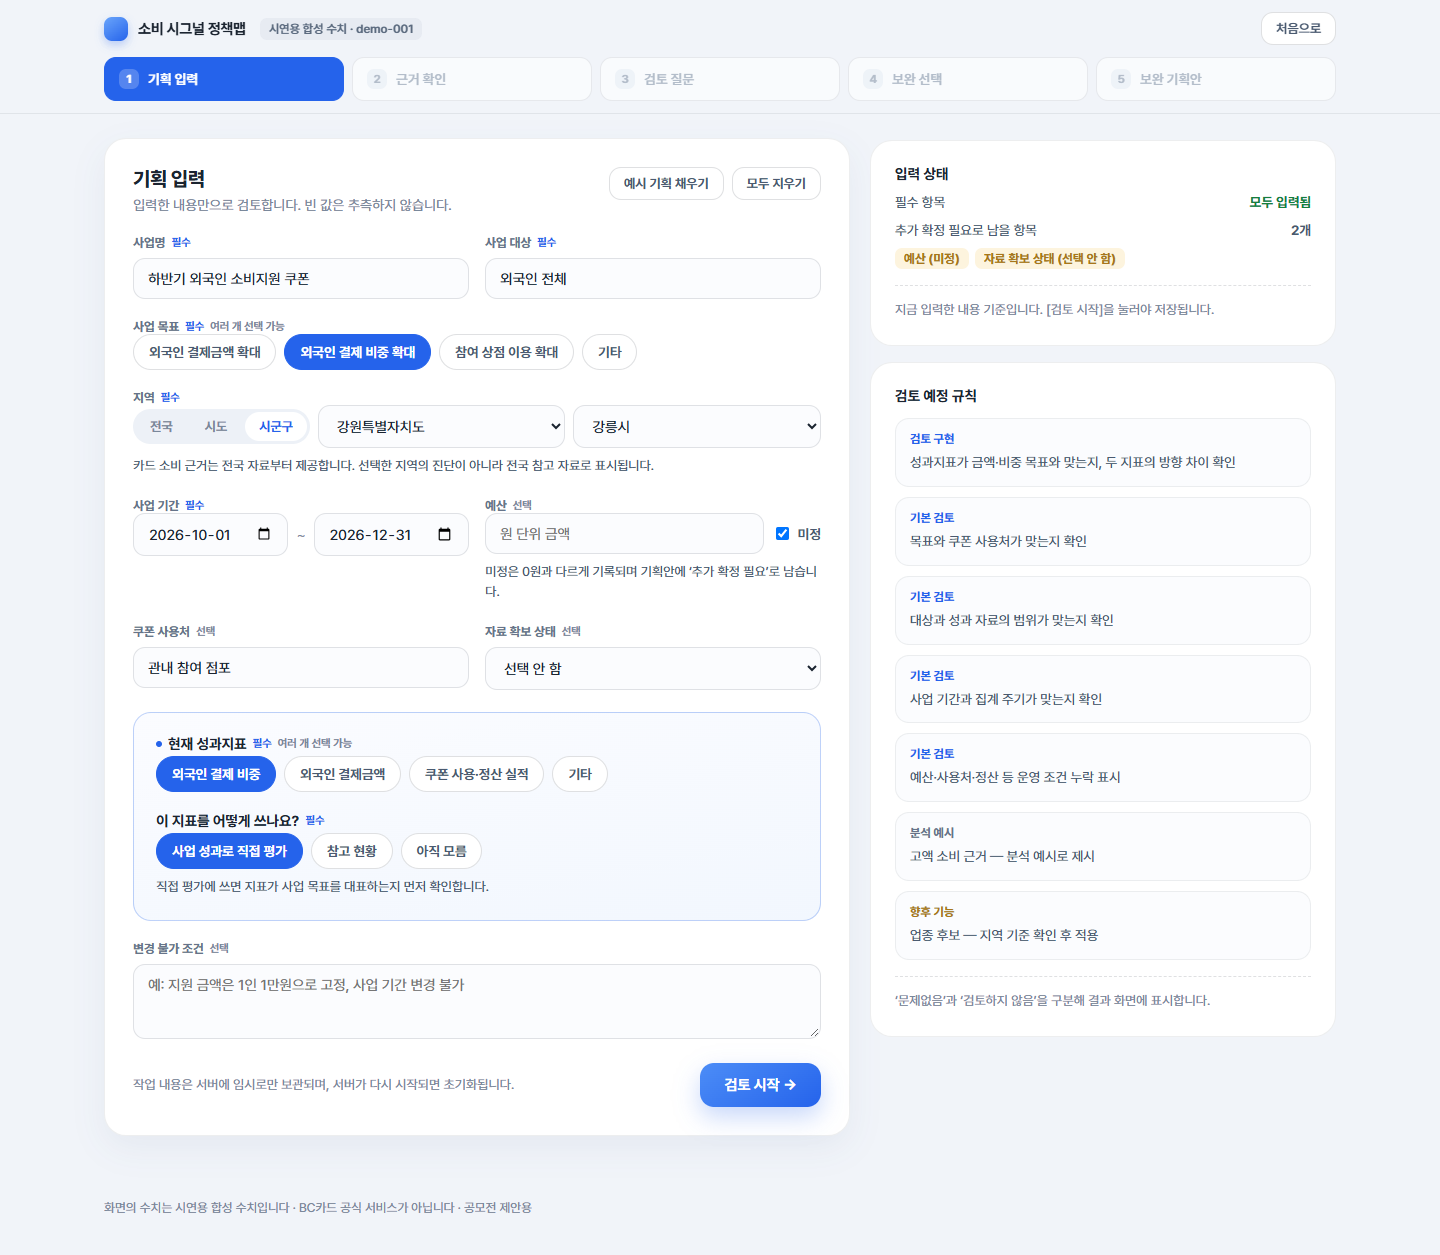
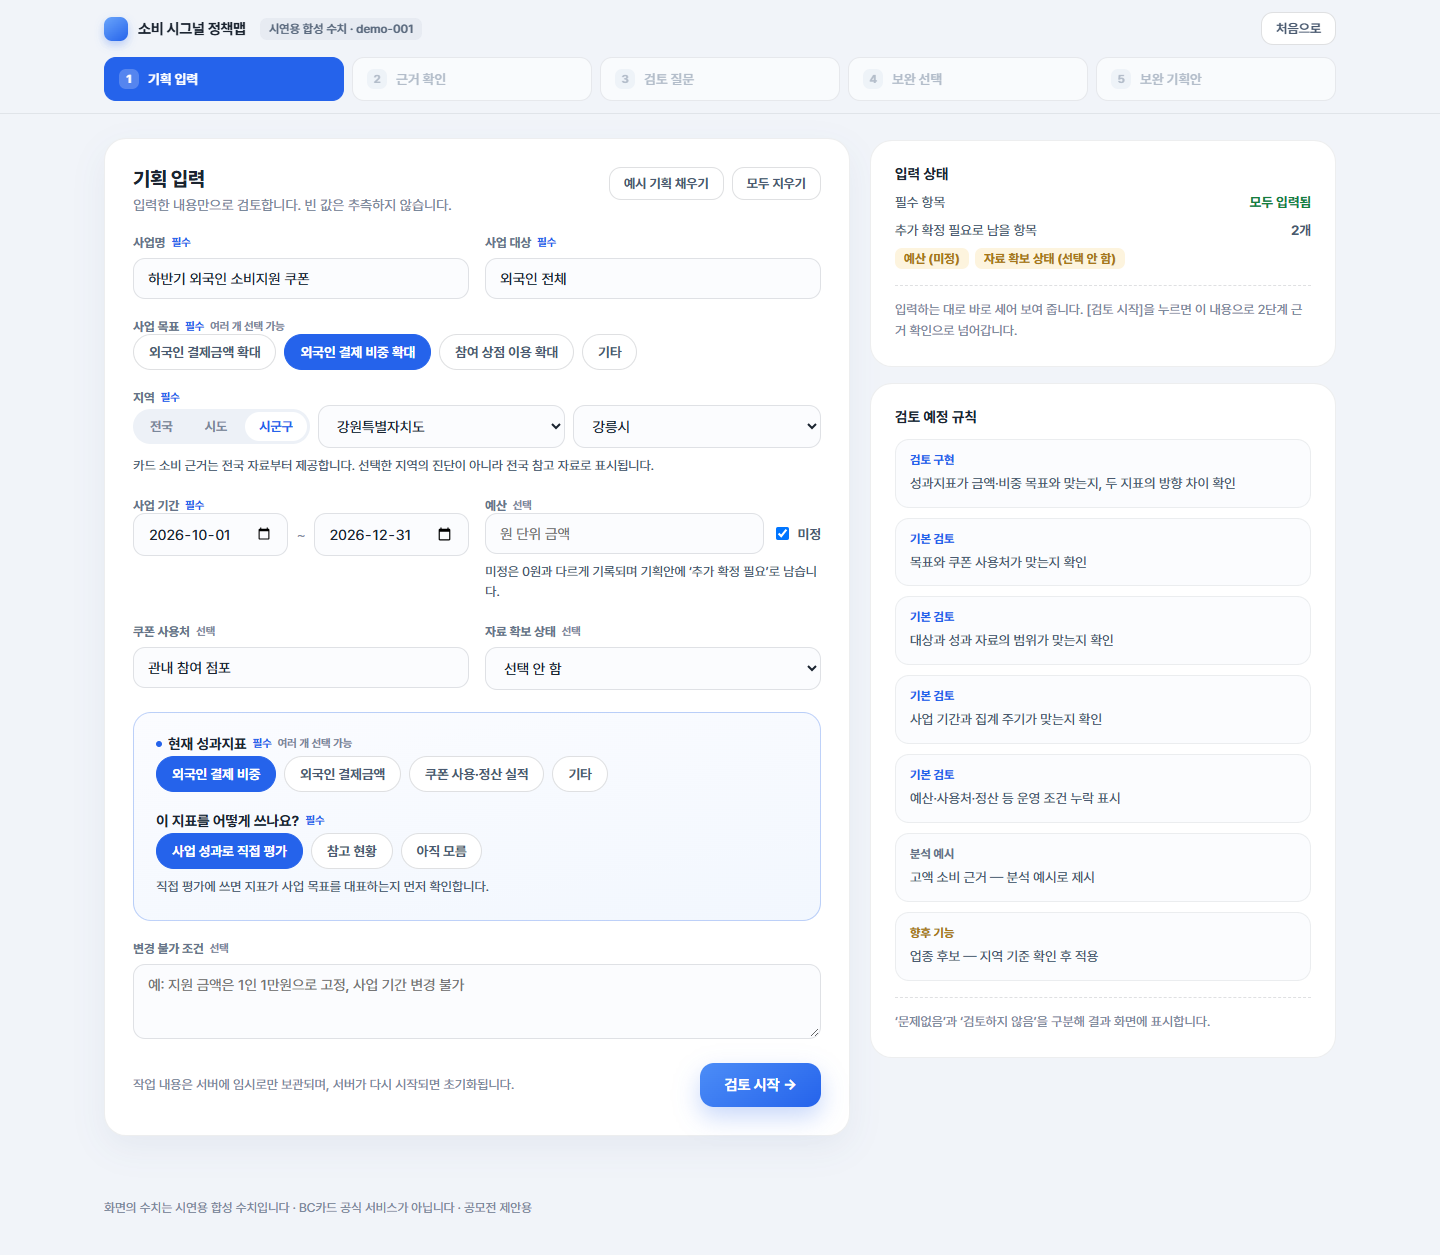
fix: 입력 상태 안내 문구를 실시간 동작에 맞게 고침
[검토 시작]은 저장 버튼이 아니라 2단계로 넘어가는 버튼이다. 패널이 이미
입력 즉시 갱신되므로 "눌러야 저장됩니다"는 잘못된 안내였다.

Changed region(s): [[0.625, 0.3108, 0.8438, 0.839], [0.625, 0.2175, 0.875, 0.2797]]

diff --git a/src/policy_signal_map/web/templates/steps/input.html b/src/policy_signal_map/web/templates/steps/input.html
@@ -195,7 +195,7 @@
       <div class="pending-list" data-summary="pending-list"{{ " hidden" if not summary.pending }}>
         {% for item in summary.pending %}<span class="badge-warn">{{ item }}</span>{% endfor %}
       </div>
-      <p class="side-foot" data-summary="foot">지금 입력한 내용 기준입니다. [검토 시작]을 눌러야 저장됩니다.</p>
+      <p class="side-foot" data-summary="foot">입력하는 대로 바로 세어 보여 줍니다. [검토 시작]을 누르면 이 내용으로 2단계 근거 확인으로 넘어갑니다.</p>
     </div>
     <div class="card">
       <h2 class="side-title">검토 예정 규칙</h2>
